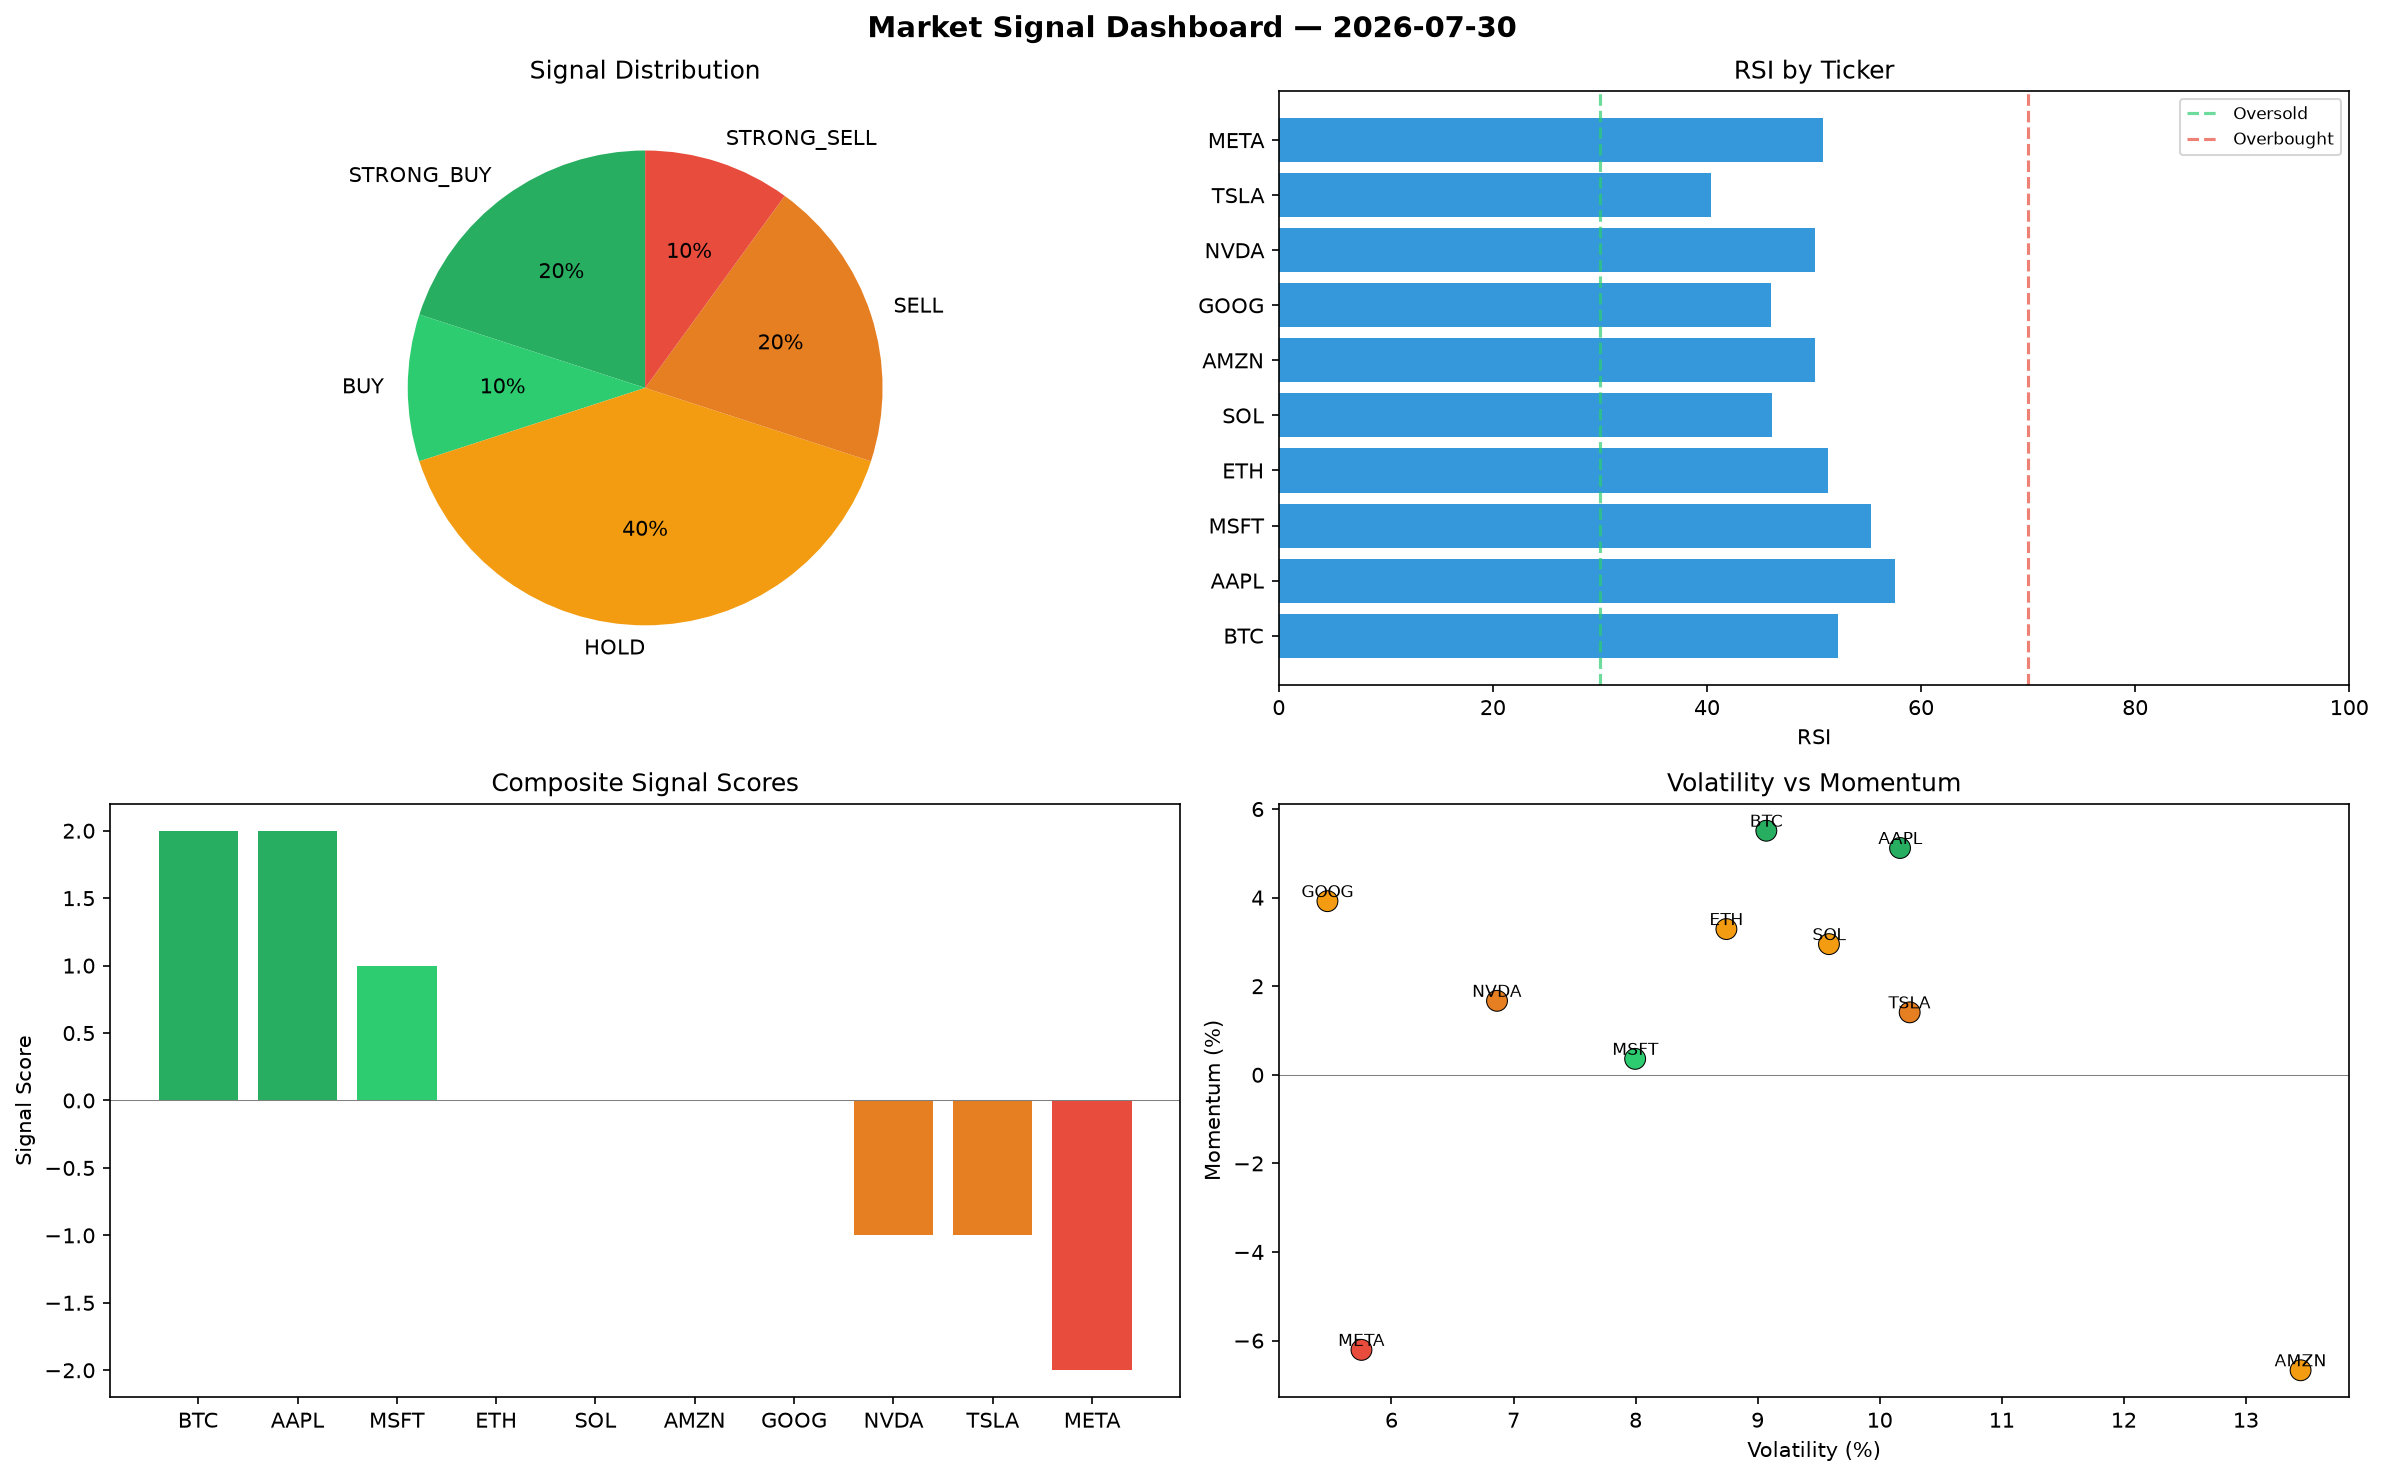
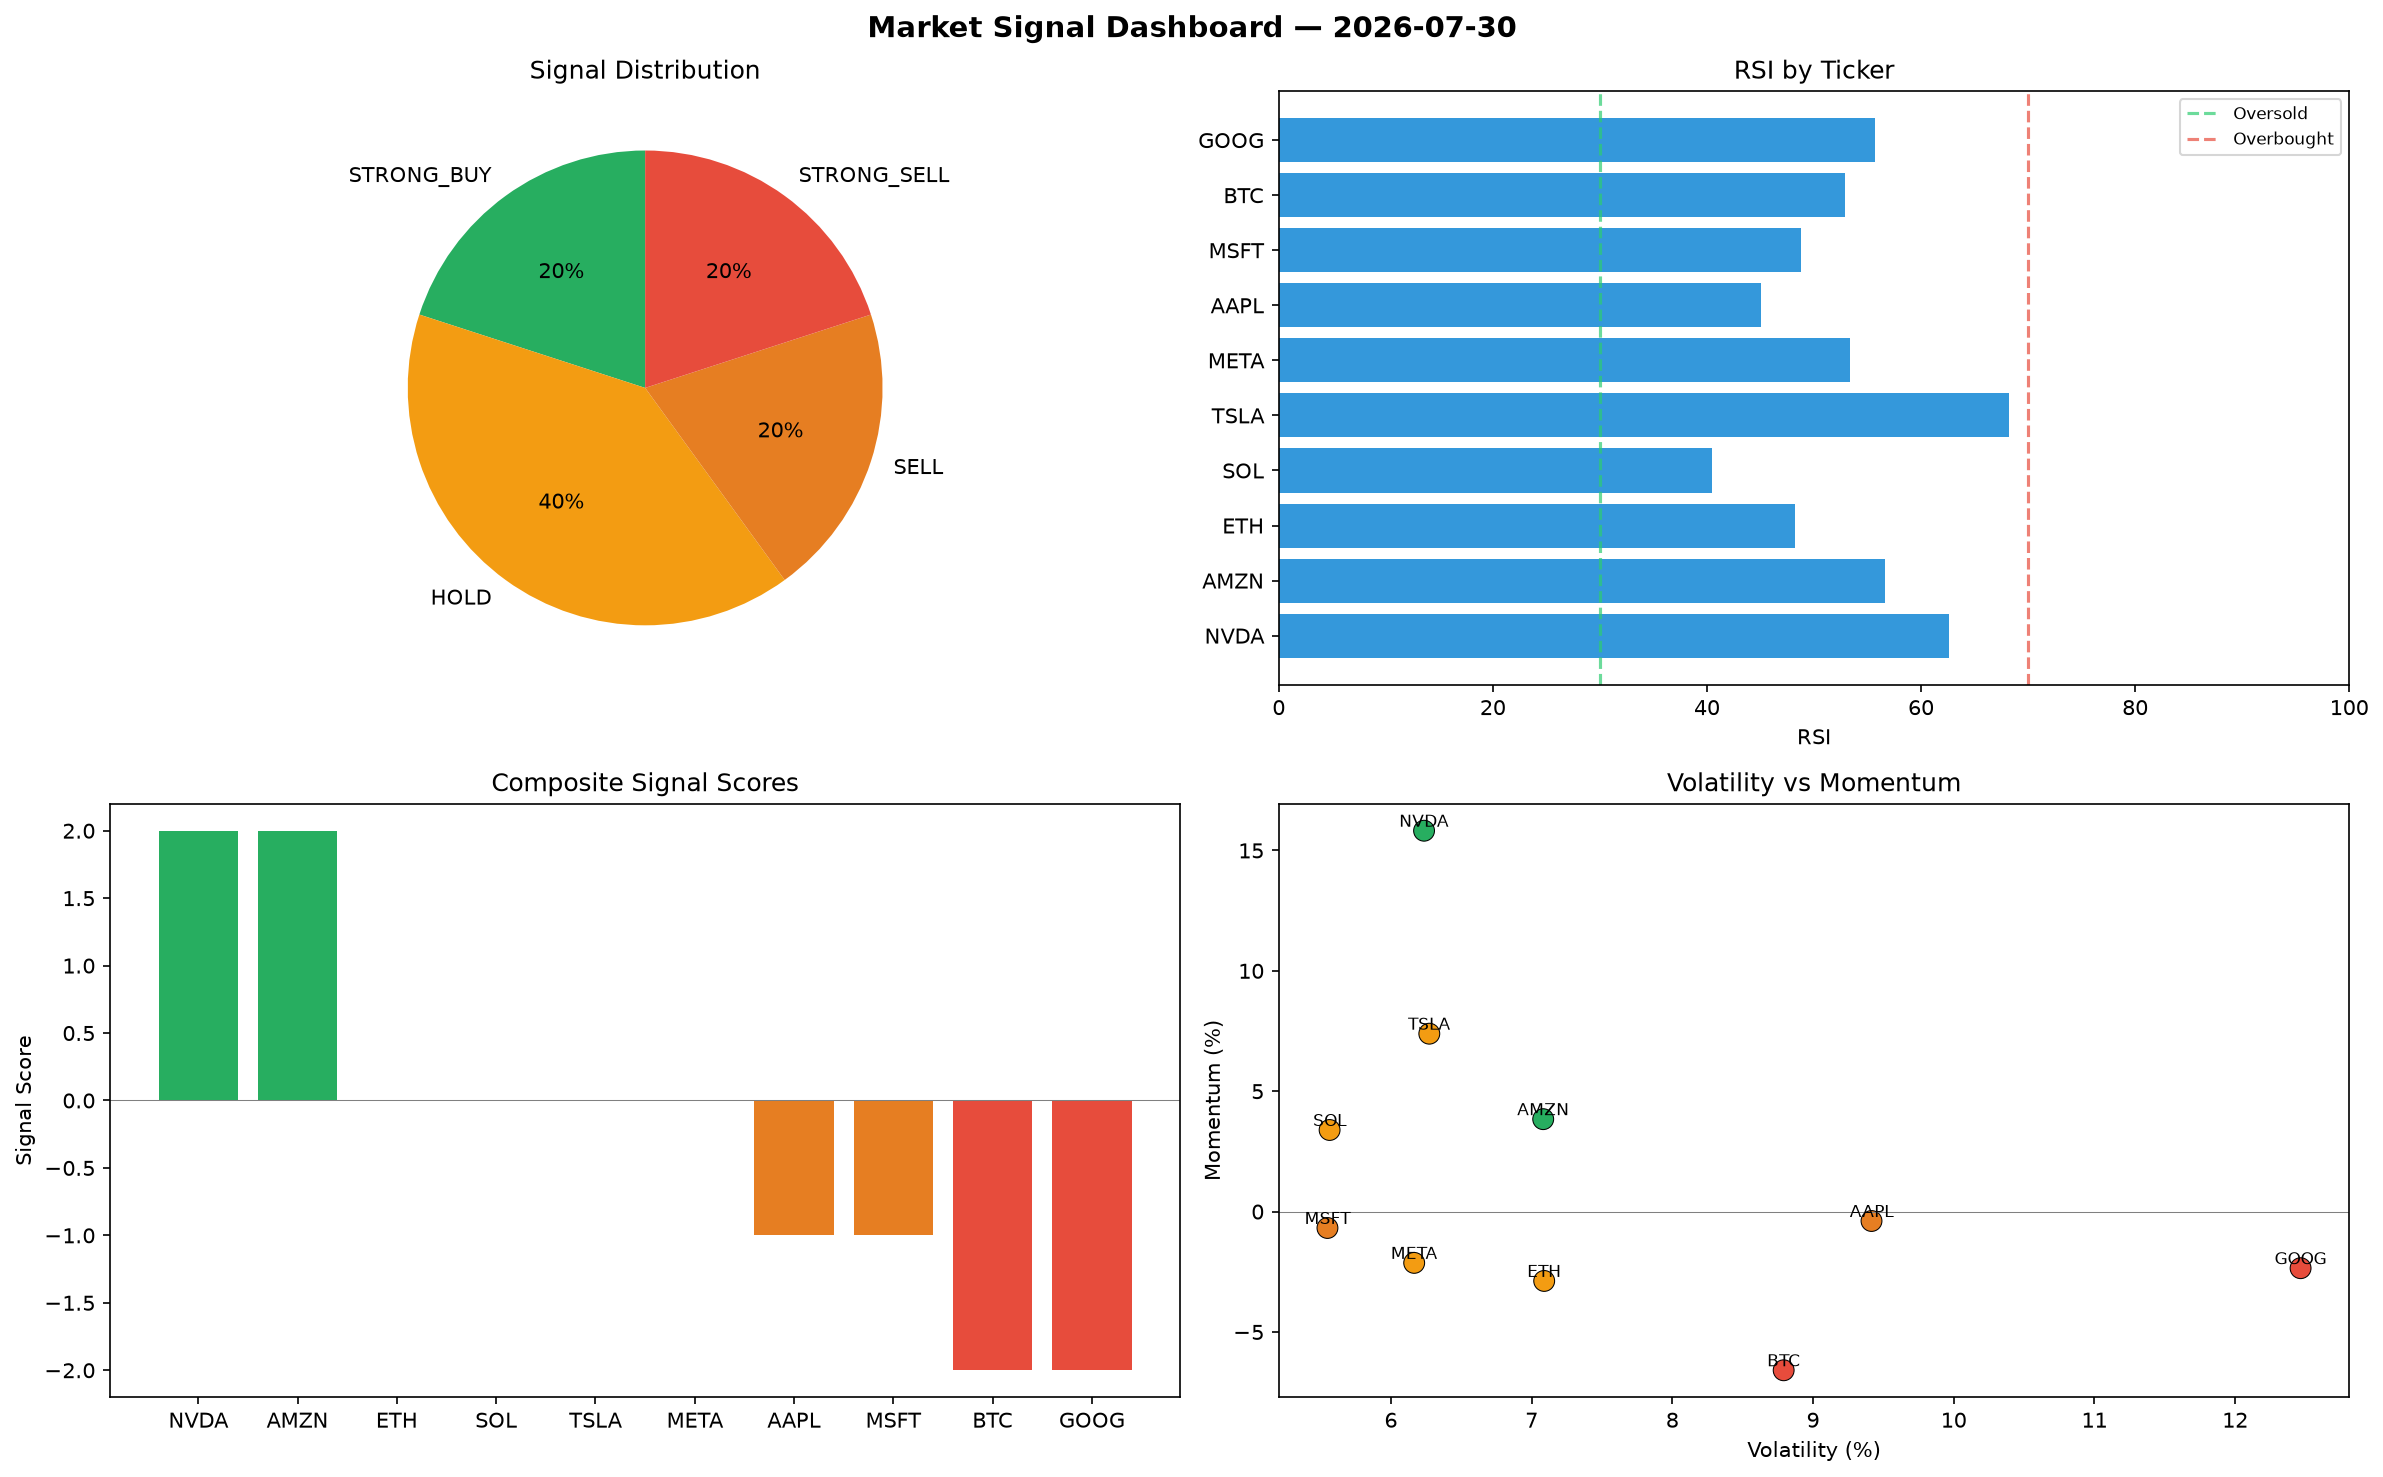
automated-bots: market signals 2026-07-30T10:36

diff --git a/logs/2026-07-30.md b/logs/2026-07-30.md
@@ -1,6 +1,6 @@
 # Market Signal Report — 2026-07-30
 
-**Run ID:** `8877eef306` | **Buy:** 3 | **Sell:** 3 | **Hold:** 4
+**Run ID:** `c15a5e0137` | **Buy:** 2 | **Sell:** 4 | **Hold:** 4
 
 ![Dashboard](2026-07-30_dashboard.png)
 
@@ -8,28 +8,28 @@
 
 | Ticker | Price | Signal | Score | RSI | Momentum | Confidence |
 |--------|-------|--------|-------|-----|----------|------------|
-| BTC | $4238.25 | **STRONG_BUY** | 2 | 52.21 | 0.0551 | 0.5 |
-| AAPL | $4884.15 | **STRONG_BUY** | 2 | 57.6 | 0.0512 | 0.5 |
-| MSFT | $4420.19 | **BUY** | 1 | 55.31 | 0.0036 | 0.25 |
-| ETH | $2555.64 | **HOLD** | 0 | 51.33 | 0.0329 | 0.0 |
-| SOL | $2046.27 | **HOLD** | 0 | 46.09 | 0.0295 | 0.0 |
-| AMZN | $1729.43 | **HOLD** | 0 | 50.07 | -0.0667 | 0.0 |
-| GOOG | $470.3 | **HOLD** | 0 | 46.01 | 0.0392 | 0.0 |
-| NVDA | $4390.25 | **SELL** | -1 | 50.12 | 0.0167 | 0.25 |
-| TSLA | $2492.58 | **SELL** | -1 | 40.42 | 0.0141 | 0.25 |
-| META | $2415.47 | **STRONG_SELL** | -2 | 50.81 | -0.0621 | 0.5 |
+| NVDA | $3825.59 | **STRONG_BUY** | 2 | 62.58 | 0.1582 | 0.5 |
+| AMZN | $3047.06 | **STRONG_BUY** | 2 | 56.61 | 0.0384 | 0.5 |
+| ETH | $4760.15 | **HOLD** | 0 | 48.26 | -0.0288 | 0.0 |
+| SOL | $3081.91 | **HOLD** | 0 | 40.51 | 0.0339 | 0.0 |
+| TSLA | $4170.32 | **HOLD** | 0 | 68.26 | 0.0739 | 0.0 |
+| META | $2655.41 | **HOLD** | 0 | 53.38 | -0.0213 | 0.0 |
+| AAPL | $450.3 | **SELL** | -1 | 45.04 | -0.0039 | 0.25 |
+| MSFT | $2732.36 | **SELL** | -1 | 48.75 | -0.0068 | 0.25 |
+| BTC | $3487.07 | **STRONG_SELL** | -2 | 52.85 | -0.0659 | 0.5 |
+| GOOG | $1343.86 | **STRONG_SELL** | -2 | 55.69 | -0.0235 | 0.5 |
 
 ## Delta vs Yesterday
 
 | Ticker | Today | Yesterday | Price Change | Signal Changed |
 |--------|-------|-----------|-------------|----------------|
-| BTC | STRONG_BUY | STRONG_SELL | 📈 27.83% | ⚠ YES |
-| AAPL | STRONG_BUY | HOLD | 📉 -2.94% | ⚠ YES |
-| MSFT | BUY | BUY | 📉 -1.99% | — |
-| ETH | HOLD | STRONG_SELL | 📈 332.69% | ⚠ YES |
-| SOL | HOLD | HOLD | 📈 70.31% | — |
-| AMZN | HOLD | STRONG_SELL | 📉 -28.08% | ⚠ YES |
-| GOOG | HOLD | HOLD | 📉 -88.53% | — |
-| NVDA | SELL | STRONG_BUY | 📉 -11.79% | ⚠ YES |
-| TSLA | SELL | SELL | 📈 10.09% | — |
-| META | STRONG_SELL | SELL | 📈 7.13% | ⚠ YES |
+| NVDA | STRONG_BUY | STRONG_BUY | 📉 -23.13% | — |
+| AMZN | STRONG_BUY | STRONG_SELL | 📈 26.72% | ⚠ YES |
+| ETH | HOLD | STRONG_SELL | 📈 705.93% | ⚠ YES |
+| SOL | HOLD | HOLD | 📈 156.51% | — |
+| TSLA | HOLD | SELL | 📈 84.18% | ⚠ YES |
+| META | HOLD | SELL | 📈 17.77% | ⚠ YES |
+| AAPL | SELL | HOLD | 📉 -91.05% | ⚠ YES |
+| MSFT | SELL | BUY | 📉 -39.42% | ⚠ YES |
+| BTC | STRONG_SELL | STRONG_SELL | 📈 5.18% | — |
+| GOOG | STRONG_SELL | HOLD | 📉 -67.24% | ⚠ YES |
